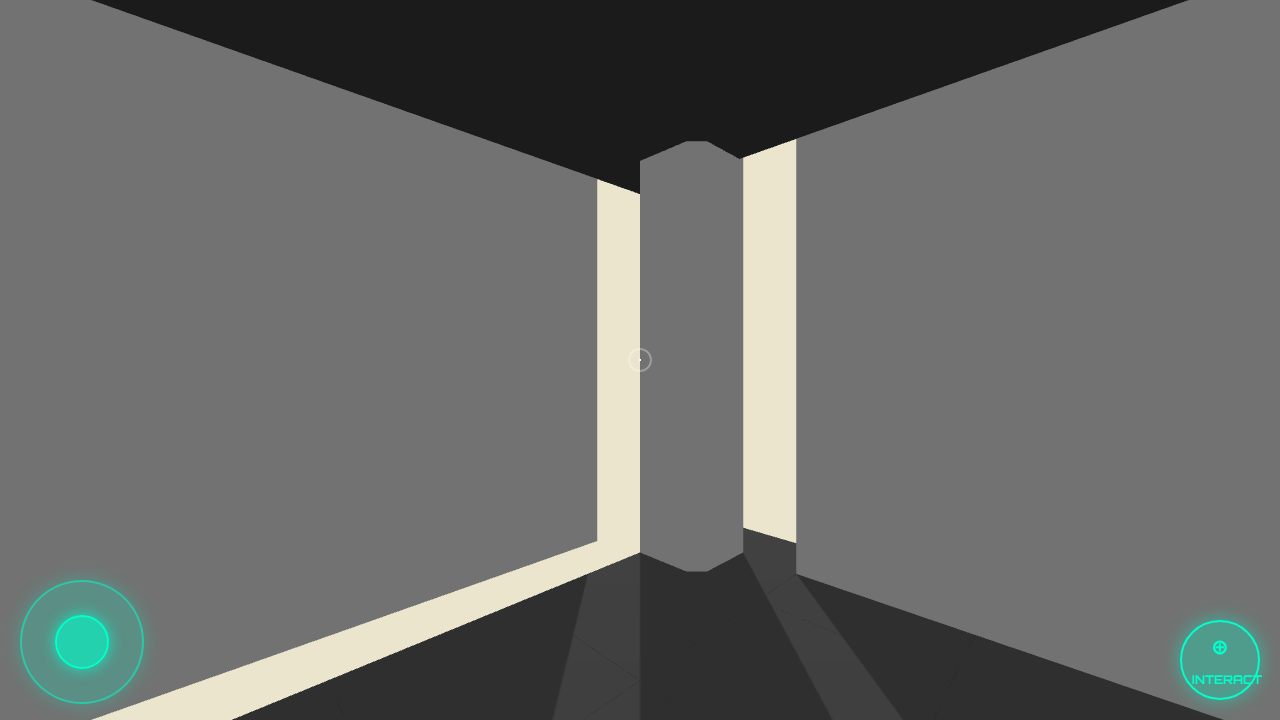
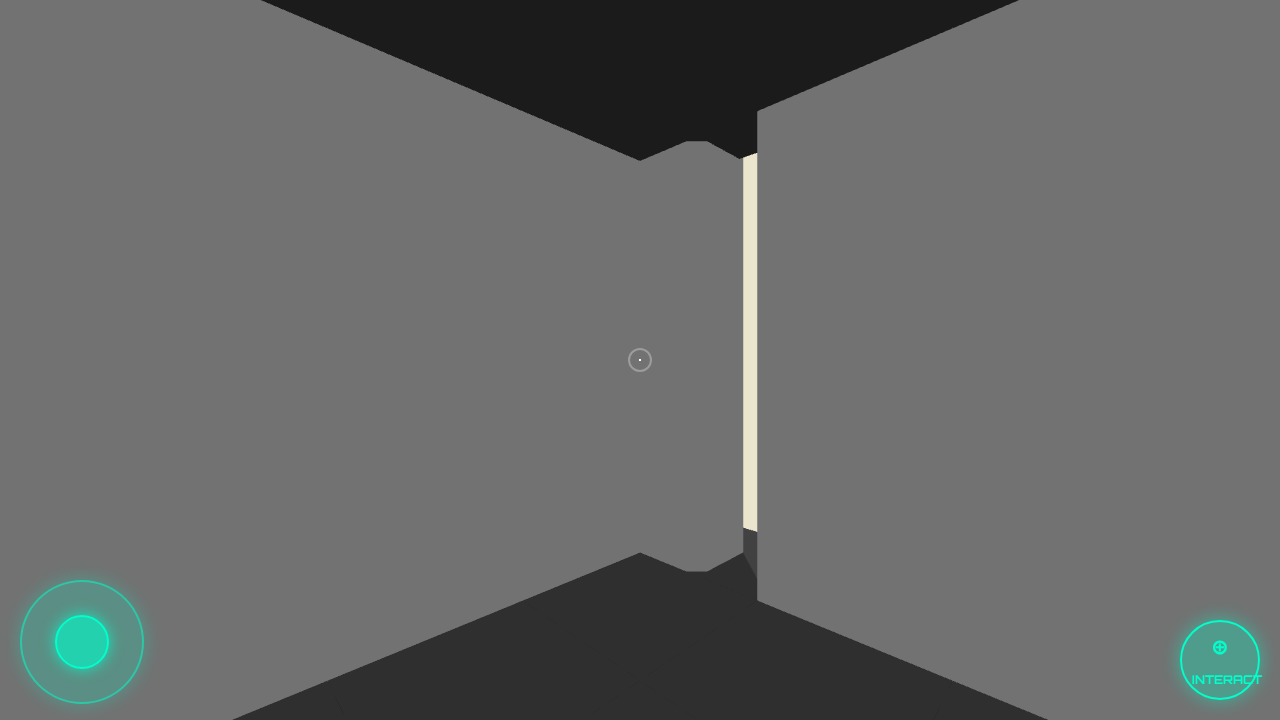
Fix misalignment of walls in blank_room_template.js

Changed region(s): [[0.0625, 0.0, 0.5, 1.0], [0.5938, 0.0, 0.9688, 1.0]]

diff --git a/assets/js/blank_room_template.js b/assets/js/blank_room_template.js
@@ -108,20 +108,20 @@ loadModel(cornerModel, { pos: [cornerOffset, 0, cornerOffset], rot: [0, Math.PI,
 for (let i = 1; i < ROOM_SIZE - 1; i++) {
     const p = ROOM_START_COORDINATE + i * WALL_SIZE;
 
-    // Back Wall (Z=-5)
-    loadModel('assets/models/wall.glb', { pos: [p, 0, -5], scale: [TILE_SCALE, WALL_HEIGHT, TILE_SCALE], parent: roomGroup });
+    // Back Wall (Z=-cornerOffset)
+    loadModel('assets/models/wall.glb', { pos: [p, 0, -cornerOffset], scale: [TILE_SCALE, WALL_HEIGHT, TILE_SCALE], parent: roomGroup });
 
-    // Front Wall (Z=5)
-    loadModel('assets/models/wall.glb', { pos: [p, 0, 5], rot: [0, Math.PI, 0], scale: [TILE_SCALE, WALL_HEIGHT, TILE_SCALE], parent: roomGroup });
+    // Front Wall (Z=cornerOffset)
+    loadModel('assets/models/wall.glb', { pos: [p, 0, cornerOffset], rot: [0, Math.PI, 0], scale: [TILE_SCALE, WALL_HEIGHT, TILE_SCALE], parent: roomGroup });
 
-    // Left Wall (X=-5)
-    loadModel('assets/models/wall.glb', { pos: [-5, 0, p], rot: [0, Math.PI / 2, 0], scale: [TILE_SCALE, WALL_HEIGHT, TILE_SCALE], parent: roomGroup });
+    // Left Wall (X=-cornerOffset)
+    loadModel('assets/models/wall.glb', { pos: [-cornerOffset, 0, p], rot: [0, Math.PI / 2, 0], scale: [TILE_SCALE, WALL_HEIGHT, TILE_SCALE], parent: roomGroup });
 
-    // Right Wall (X=5) - with doorway at index 5 (near center)
+    // Right Wall (X=cornerOffset) - with doorway at index 5 (near center)
     if (i === 5) {
-        loadModel('assets/models/wallDoorway.glb', { pos: [5, 0, p], rot: [0, -Math.PI / 2, 0], scale: [TILE_SCALE, WALL_HEIGHT, TILE_SCALE], parent: roomGroup });
+        loadModel('assets/models/wallDoorway.glb', { pos: [cornerOffset, 0, p], rot: [0, -Math.PI / 2, 0], scale: [TILE_SCALE, WALL_HEIGHT, TILE_SCALE], parent: roomGroup });
     } else {
-        loadModel('assets/models/wall.glb', { pos: [5, 0, p], rot: [0, -Math.PI / 2, 0], scale: [TILE_SCALE, WALL_HEIGHT, TILE_SCALE], parent: roomGroup });
+        loadModel('assets/models/wall.glb', { pos: [cornerOffset, 0, p], rot: [0, -Math.PI / 2, 0], scale: [TILE_SCALE, WALL_HEIGHT, TILE_SCALE], parent: roomGroup });
     }
 }
 
@@ -129,7 +129,7 @@ for (let i = 1; i < ROOM_SIZE - 1; i++) {
 // --- DOOR & TIMER ---
 const doorZ = ROOM_START_COORDINATE + 5 * WALL_SIZE;
 const doorGroup = new THREE.Group();
-doorGroup.position.set(5, 0, doorZ);
+doorGroup.position.set(cornerOffset, 0, doorZ);
 doorGroup.rotation.y = -Math.PI / 2;
 scene.add(doorGroup);
 
